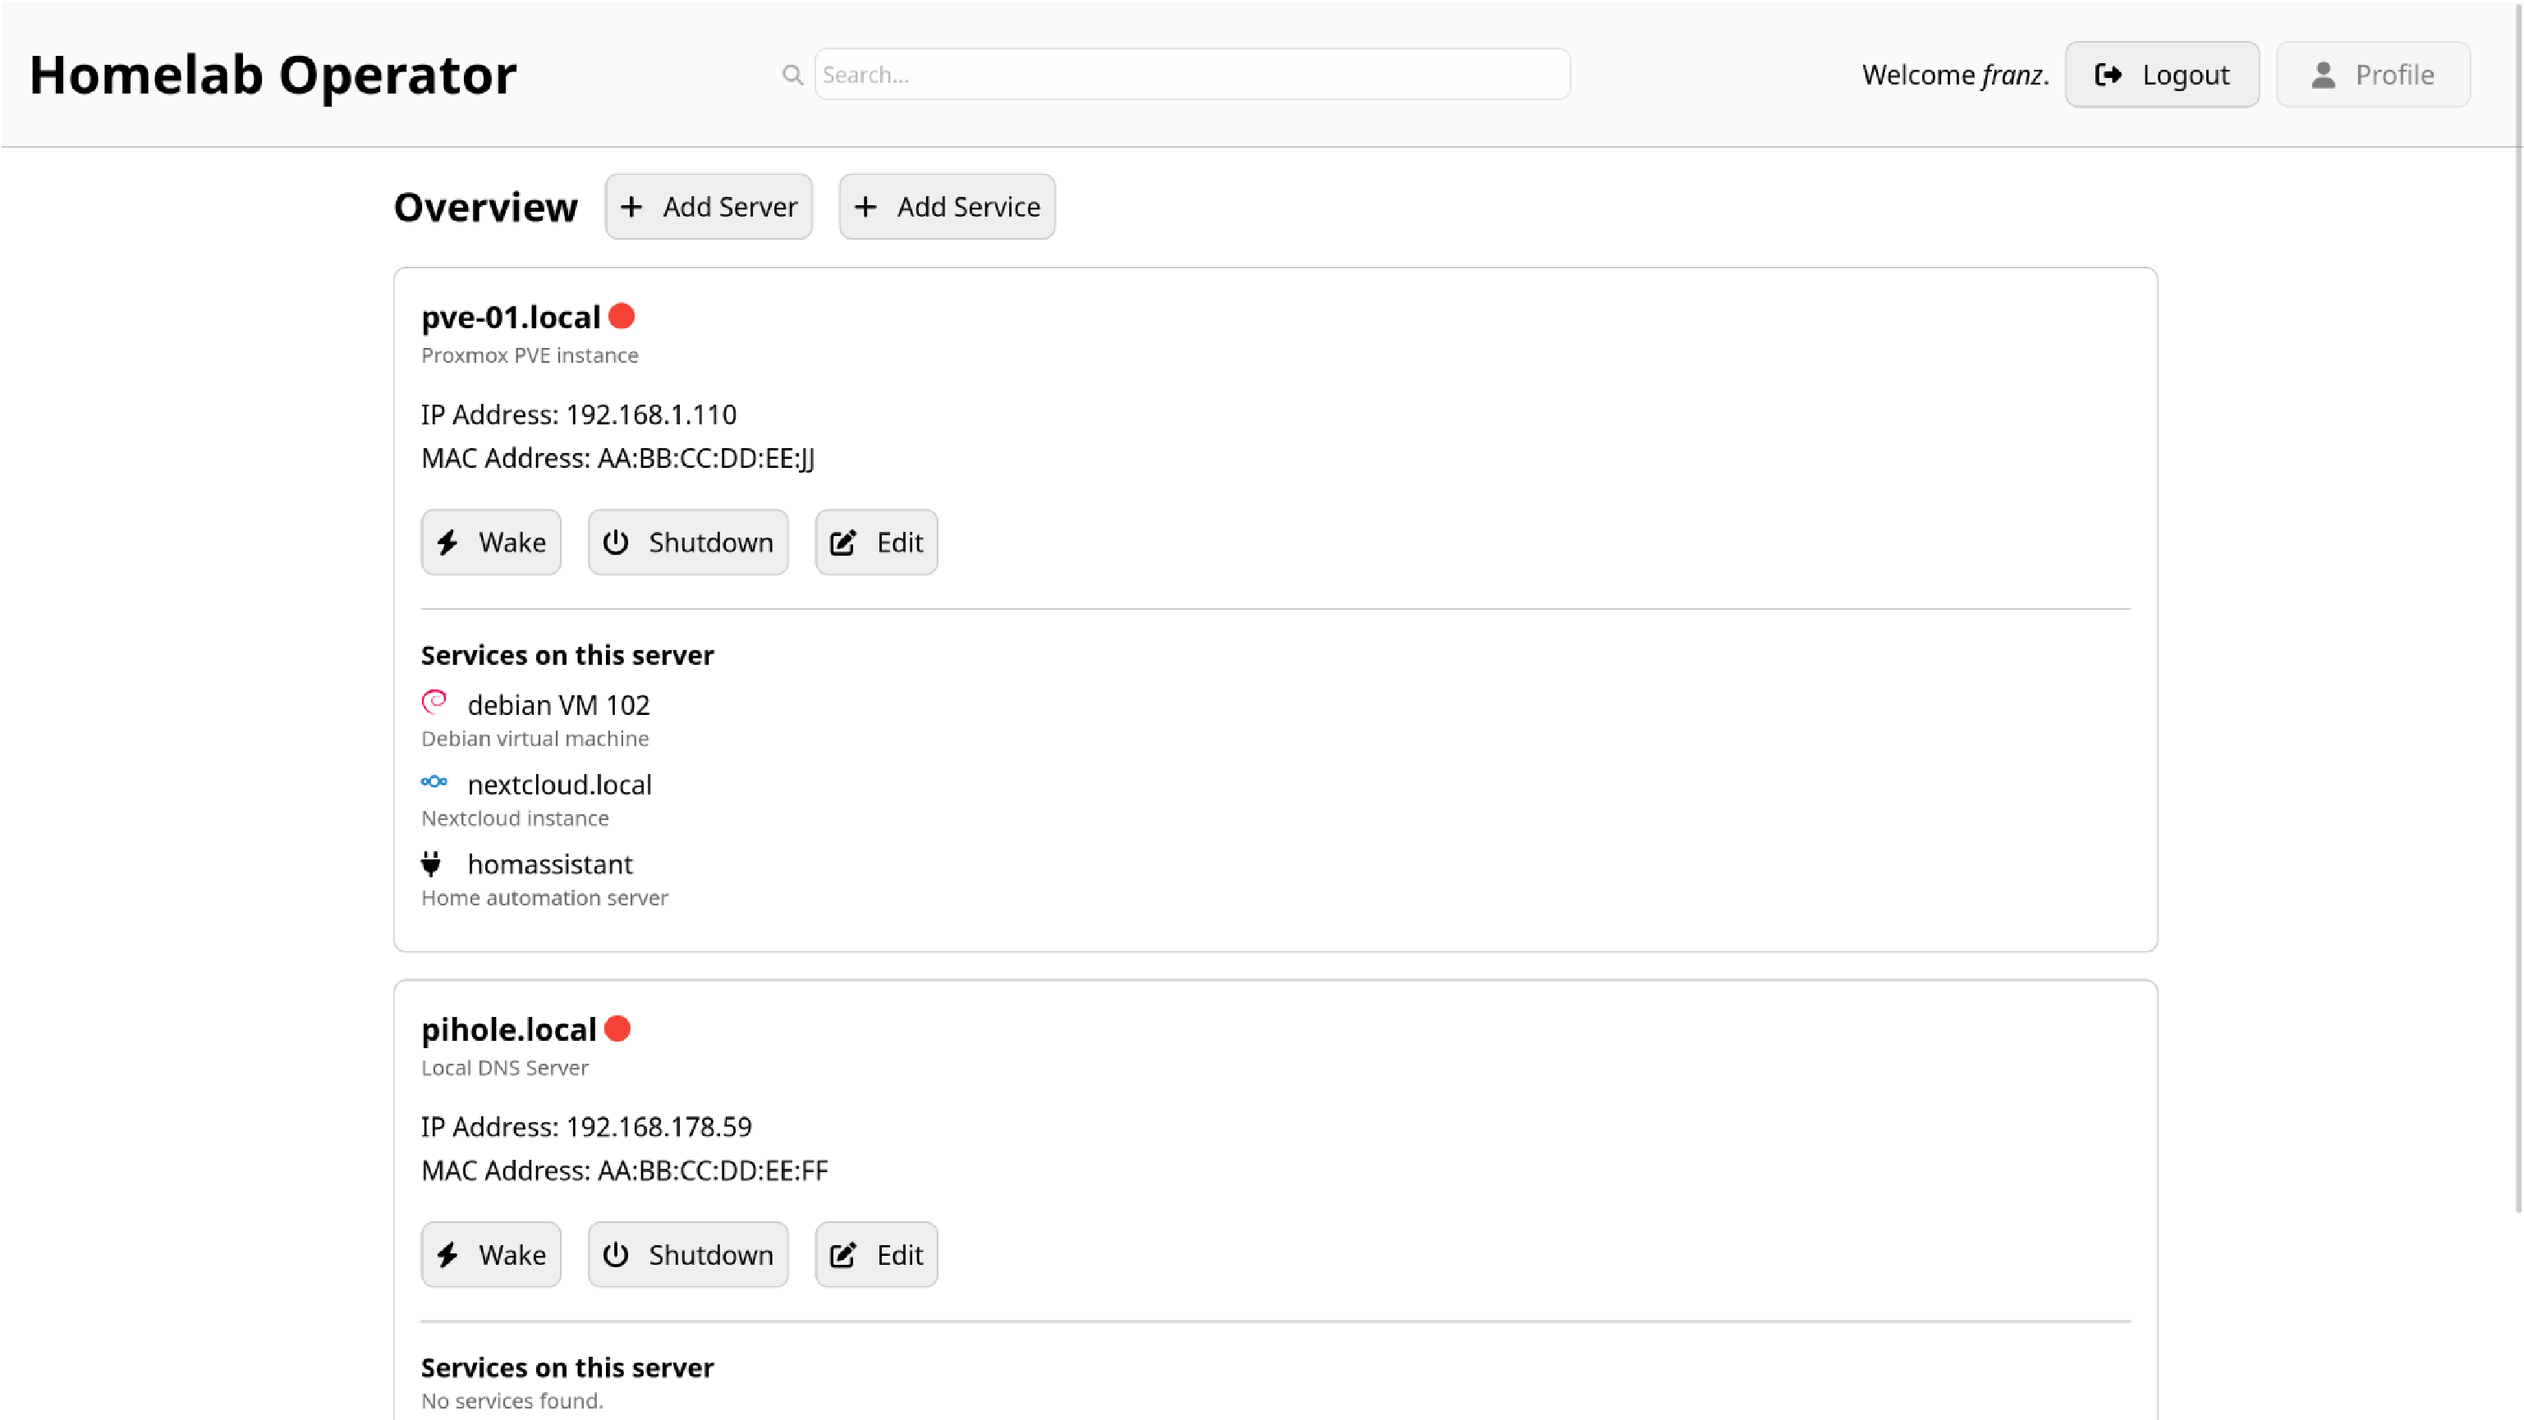
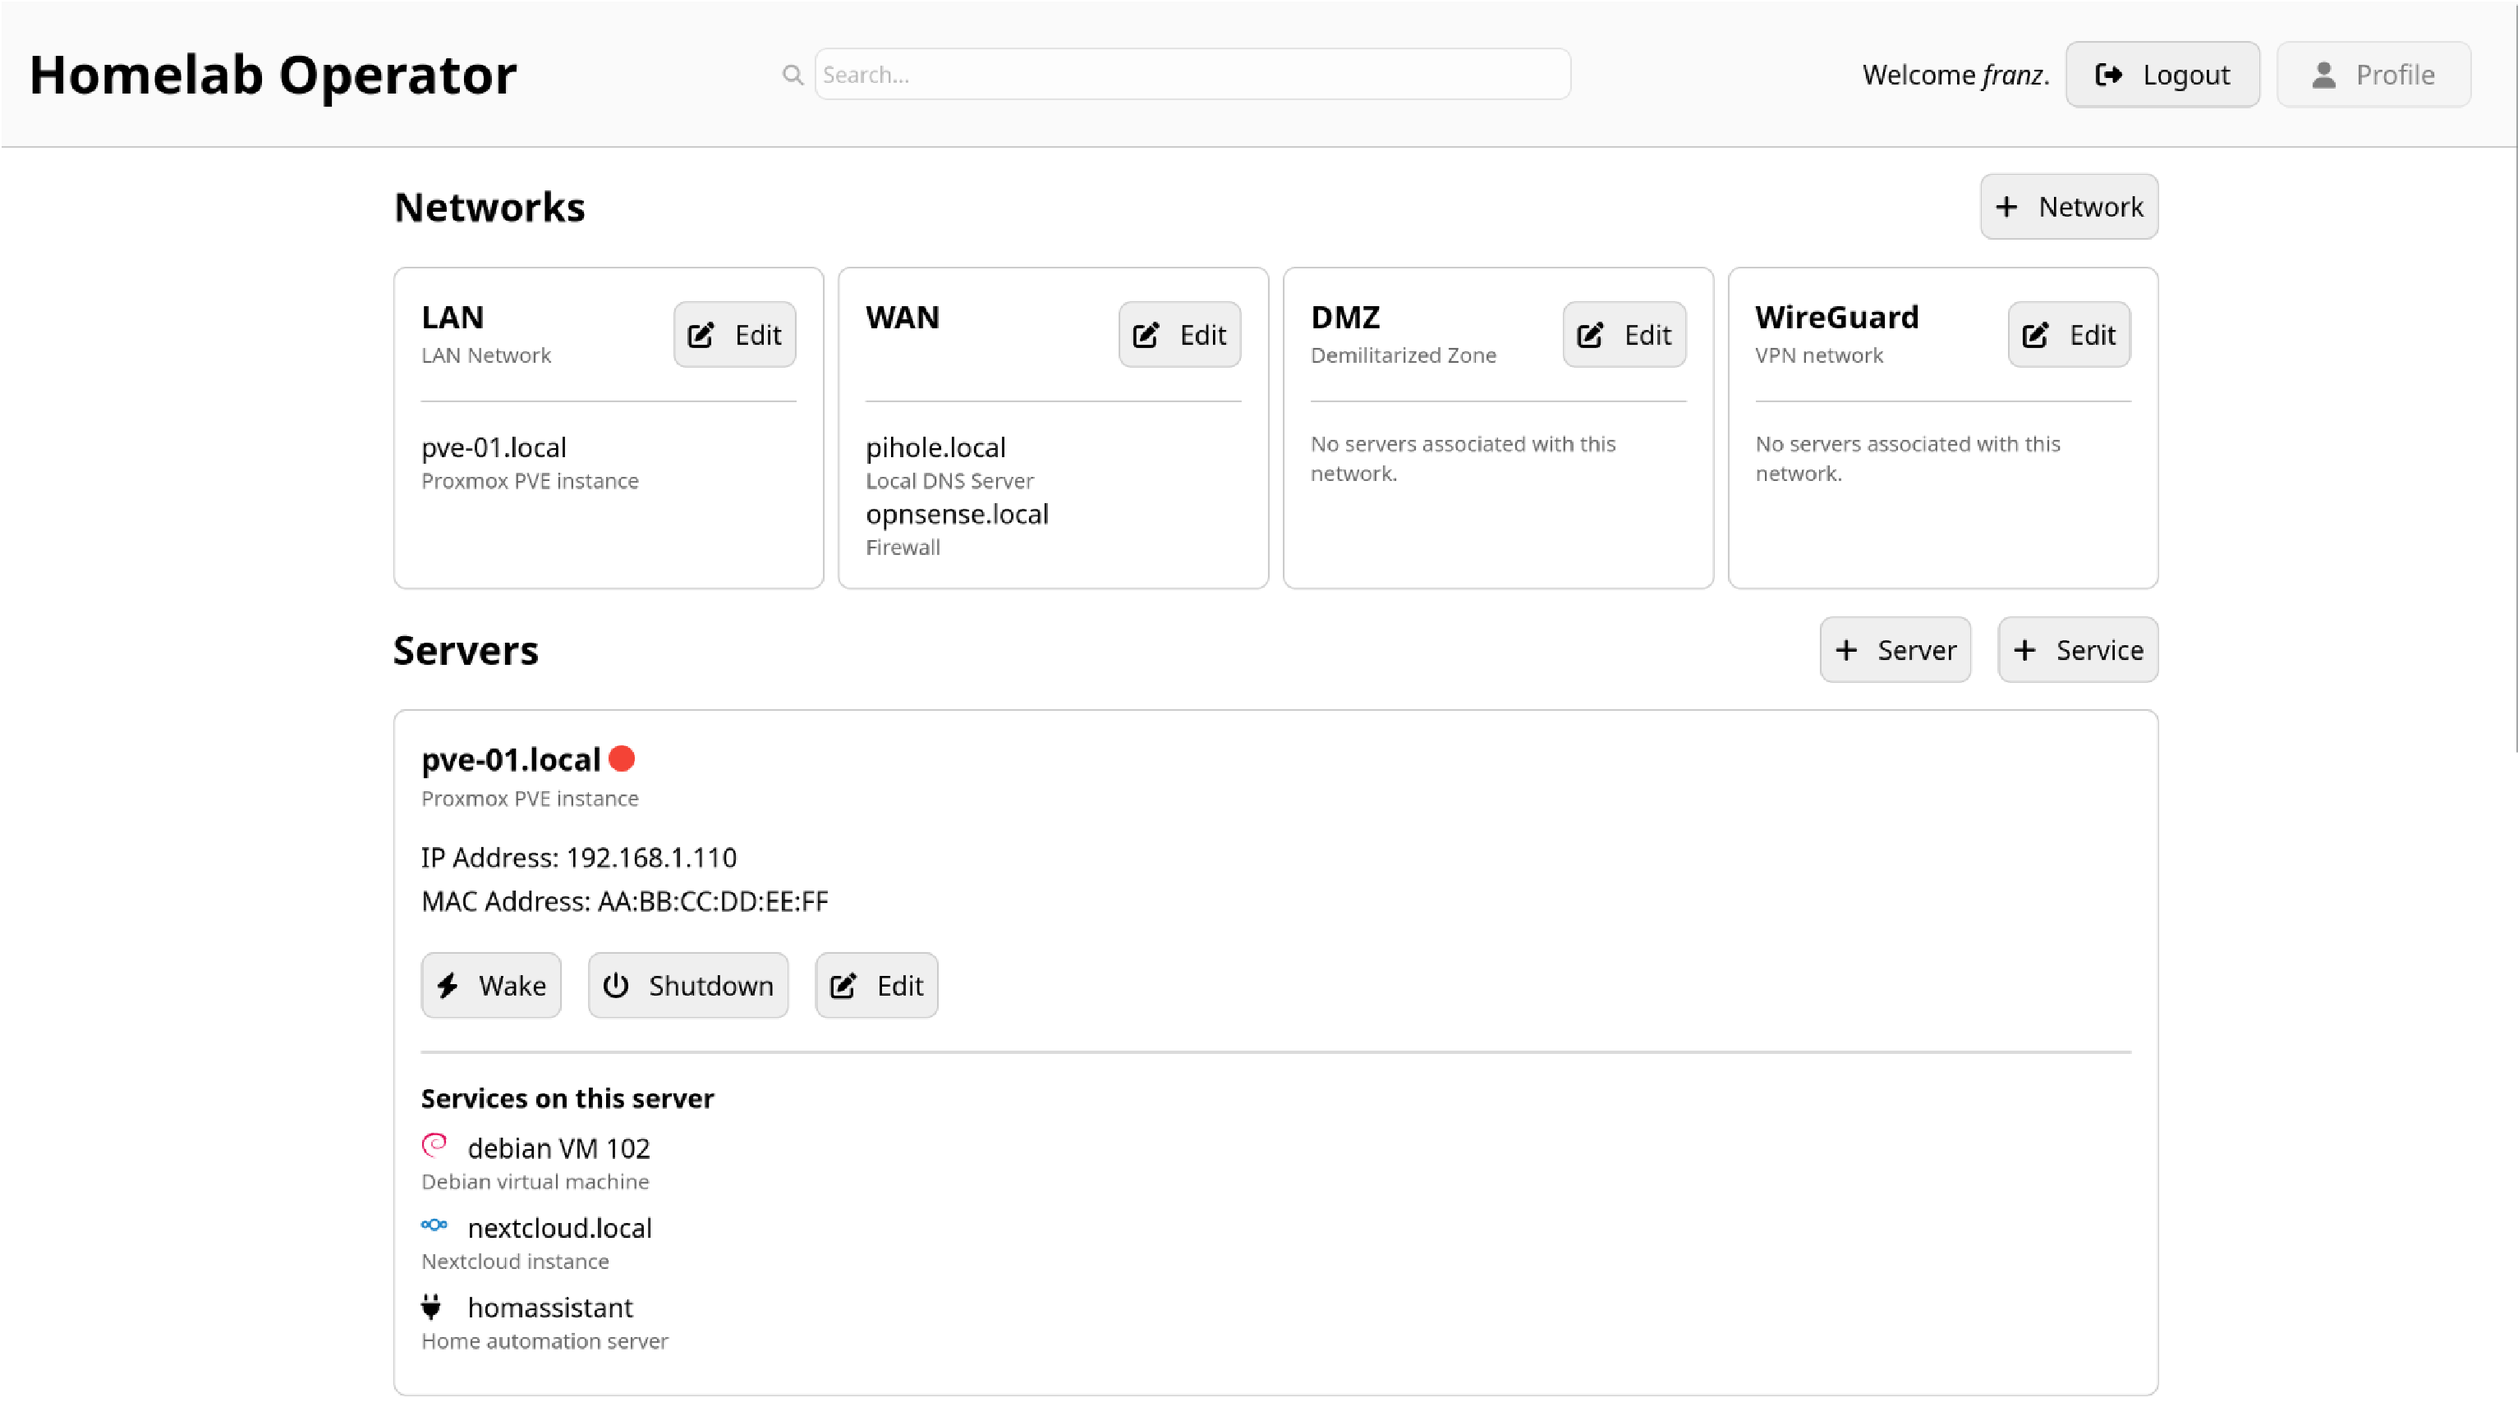
Add Network model, forms, and views; update dashboard to display networks and servers

diff --git a/homelab_operator/templates/html/dashboard.html b/homelab_operator/templates/html/dashboard.html
@@ -1,20 +1,74 @@
 {% extends 'html/base.html' %}
 
 {% block content %}
-    <div style="width: min-content;">
+    <div>
         <span style="display: flex;">
-            <h2>Overview</h2>
+            <h2>Networks</h2>
             <div style="width: 1rem;"></div>
-            <span style="margin: auto;">
-                {% include 'html_components/inline_button.html' with label='Add Server' fa_icon='fa-plus' href='/create/server/' %}
+            <span style="margin: auto 0 auto auto;">
+                {% include 'html_components/inline_button.html' with label='Network' fa_icon='fa-plus' href='/create/network/' %}
+            </span>
+        </span>
+    </div>
+    {% if networks %}
+        <div class="tile-display">
+            {% for network in networks %}
+                <div class="tile">
+                    <div style="display: flex;">
+                        <div>
+                            <h3 style="display: flex;">
+                                {{ network.name }}
+                            </h3>
+                            <div class="soft">
+                                {{ network.note }}
+                            </div>
+                        </div>
+                        <span style="margin: auto 0 auto auto; width: min-content;">
+                            {% with network_id=network.id|stringformat:'s' %}
+                                {% include 'html_components/inline_button.html' with label='Edit' fa_icon='fa-pen-to-square' href='/edit/network/'|add:network_id %}
+                            {% endwith %}
+                        </span>
+                    </div>
+                    <div class="spacer"></div>
+                    <div style="border-top: 1px solid #ccc;"></div>
+                    <div class="spacer"></div>
+                    <div>
+                        {% if network.servers.all %}
+                            {% for server in network.servers.all %}
+                                <div>
+                                    {{ server.name }}
+                                </div>
+                                <div class="soft">
+                                    {{ server.note }}
+                                </div>
+                            {% endfor %}
+                        {% else %}
+                            <div class="soft">No servers associated with this network.</div>
+                        {% endif %}
+                    </div>
+                </div>
+            {% endfor %}
+        </div>
+    {% else %}
+        <div>
+            <b>No networks were found.</b>
+            <div class="soft">There are no networks associated with this user.</div>
+        </div>
+    {% endif %}
+
+    <div>
+        <span style="display: flex;">
+            <h2>Servers</h2>
+            <div style="width: 1rem;"></div>
+            <span style="margin: auto 0 auto auto;">
+                {% include 'html_components/inline_button.html' with label='Server' fa_icon='fa-plus' href='/create/server/' %}
             </span>
             <div style="width: 1rem;"></div>
-            <span style="margin: auto;">
+            <span style="margin: auto 0 auto 0;">
                 {% with server_id=server.id|stringformat:'s' %}
-                    {% include 'html_components/inline_button.html' with label='Add Service' fa_icon='fa-plus' href='/create/service/' %}
+                    {% include 'html_components/inline_button.html' with label='Service' fa_icon='fa-plus' href='/create/service/' %}
                 {% endwith %}
             </span>
-            <div class="spacer" style="height: 0; width: 1rem;"></div>
         </span>
     </div>
     {% if servers %}
@@ -85,8 +139,8 @@
         {% endfor %}
     {% else %}
         <div>
-            <h3>No servers were found.</h3>
-            <div>There are no servers associated with this user.</div>
+            <b>No servers were found.</b>
+            <div class="soft">There are no servers associated with this user.</div>
         </div>
     {% endif %}
 {% endblock %}

diff --git a/homelab_operator/static/base.css b/homelab_operator/static/base.css
@@ -211,9 +211,9 @@ h3 {
 
 .tile-display {
     display: grid;
-    grid-template-columns: repeat(auto-fill, minmax(45.5vw, 1fr));
+    grid-template-columns: repeat(auto-fill, minmax(15rem, 1fr));
     grid-gap: .5rem;
-    margin: 1rem 1rem 0 auto;
+    /*margin: 1rem 1rem 0 auto;*/
 }
 
 .tile {

diff --git a/homelab_operator/webui/views.py b/homelab_operator/webui/views.py
@@ -2,8 +2,8 @@ from django.shortcuts import render, redirect
 from django.contrib import messages
 from django.contrib.auth import logout, authenticate, login
 from django.contrib.auth.decorators import login_required
-from .models import Server
-from .forms import ServerForm, ServiceForm
+from .models import Server, Service, Network
+from .forms import ServerForm, ServiceForm, NetworkForm
 
 def login_view(request):
     context = {}
@@ -29,9 +29,11 @@ def logout_view(request):
 def dashboard(request):
     user = request.user
     servers = Server.objects.filter(user=user)
+    networks = Network.objects.filter(user=user)
 
     context = {
         'servers': servers,
+        'networks': networks,
     }
     return render(request, 'html/dashboard.html', context)
 
@@ -66,7 +68,7 @@ def shutdown(request, server_id):
 @login_required
 def edit_server(request, server_id):
     user = request.user
-    server = Server.objects.get(id=server_id)
+    server = Server.objects.get(id=server_id, user=user)
 
     if request.method == 'POST':
         form = ServerForm(request.POST, instance=server)
@@ -124,5 +126,48 @@ def create_service(request):
     context = {
         'form': form,
         'form_title': 'Create Service',
+    }
+    return render(request, 'html_components/form.html', context)
+
+@login_required
+def create_network(request):
+    user = request.user
+
+    if request.method == 'POST':
+        form = NetworkForm(request.POST)
+        if form.is_valid():
+            network = form.save(commit=False)
+            network.user = user
+            network.save()
+            messages.success(request, f"Network {network.name} created successfully")
+            return redirect('dashboard')
+    else:
+        form = NetworkForm(user=user)
+
+    context = {
+        'form': form,
+        'form_title': 'Create Network',
+    }
+    return render(request, 'html_components/form.html', context)
+
+@login_required
+def edit_network(request, network_id):
+    user = request.user
+    network = Network.objects.get(id=network_id, user=user)
+
+    if request.method == 'POST':
+        form = NetworkForm(request.POST, instance=network)
+        if form.is_valid():
+            network = form.save()
+            network.user = user
+            network.save()
+            messages.success(request, f"Network {network.name} updated successfully")
+            return redirect('dashboard')
+    else:
+        form = NetworkForm(instance=network, user=user)
+
+    context = {
+        'form': form,
+        'form_title': 'Edit Network',
     }
     return render(request, 'html_components/form.html', context)

diff --git a/homelab_operator/webui/models.py b/homelab_operator/webui/models.py
@@ -7,6 +7,7 @@ class Server(models.Model):
     ip_address = models.GenericIPAddressField()
     mac_address = models.CharField(max_length=17)
     note = models.TextField(null=True, blank=True)
+    network = models.ForeignKey('Network', on_delete=models.CASCADE, null=True, blank=True, related_name='servers')
     ssh_username = models.CharField(max_length=100, null=True, blank=True)
     ssh_password = models.CharField(max_length=100, null=True, blank=True)
     user = models.ForeignKey('auth.User', on_delete=models.CASCADE, null=True, blank=True)
@@ -57,3 +58,11 @@ class Service(models.Model):
 
     def __str__(self):
         return f"{self.name} on {self.server.name}"
+
+class Network(models.Model):
+    name = models.CharField(max_length=20)
+    user = models.ForeignKey('auth.User', on_delete=models.CASCADE, null=True, blank=True)
+    note = models.TextField(null=True, blank=True)
+
+    def __str__(self):
+        return self.name

diff --git a/homelab_operator/webui/migrations/0007_network_server_network.py b/homelab_operator/webui/migrations/0007_network_server_network.py
@@ -1,0 +1,26 @@
+# Generated by Django 5.2 on 2025-04-14 14:46
+
+import django.db.models.deletion
+from django.db import migrations, models
+
+
+class Migration(migrations.Migration):
+
+    dependencies = [
+        ('webui', '0006_alter_service_server'),
+    ]
+
+    operations = [
+        migrations.CreateModel(
+            name='Network',
+            fields=[
+                ('id', models.BigAutoField(auto_created=True, primary_key=True, serialize=False, verbose_name='ID')),
+                ('name', models.CharField(max_length=20)),
+            ],
+        ),
+        migrations.AddField(
+            model_name='server',
+            name='network',
+            field=models.ForeignKey(blank=True, null=True, on_delete=django.db.models.deletion.CASCADE, to='webui.network'),
+        ),
+    ]

diff --git a/homelab_operator/webui/urls.py b/homelab_operator/webui/urls.py
@@ -8,7 +8,10 @@ urlpatterns = [
     path('logout/', views.logout_view, name='logout'),
     path('wake/<int:server_id>/', views.wake, name='wake'),
     path('shutdown/<int:server_id>/', views.shutdown, name='shutdown'),
-    path('edit/server/<int:server_id>/', views.edit_server, name='edit_server'),    
     path('create/server/', views.create_server, name='create_server'),
     path('create/service/', views.create_service, name='create_service'),
+    path('create/network/', views.create_network, name='create_network'),
+    path('edit/server/<int:server_id>/', views.edit_server, name='edit_server'),
+    #path('edit/service/<int:service_id>/', views.edit_service, name='edit_service'),
+    path('edit/network/<int:network_id>/', views.edit_network, name='edit_network'),
 ]

diff --git a/homelab_operator/webui/forms.py b/homelab_operator/webui/forms.py
@@ -1,6 +1,6 @@
 from django.forms import ModelForm
 from django.utils.html import format_html
-from .models import Server, Service
+from .models import Server, Service, Network
 
 class ServerForm(ModelForm):
     def __init__(self, *args, **kwargs):
@@ -26,4 +26,18 @@ class ServiceForm(ModelForm):
         
     class Meta:
         model = Service
+        fields = '__all__'
+
+class NetworkForm(ModelForm):
+    def __init__(self, *args, **kwargs):
+        user = kwargs.pop('user', None)
+
+        super(NetworkForm, self).__init__(*args, **kwargs)
+
+        if user:
+            self.fields['user'].initial = user
+            self.fields['user'].disabled = True
+        
+    class Meta:
+        model = Network
         fields = '__all__'

diff --git a/homelab_operator/webui/migrations/0009_network_note_alter_server_network.py b/homelab_operator/webui/migrations/0009_network_note_alter_server_network.py
@@ -1,0 +1,24 @@
+# Generated by Django 5.2 on 2025-04-14 15:10
+
+import django.db.models.deletion
+from django.db import migrations, models
+
+
+class Migration(migrations.Migration):
+
+    dependencies = [
+        ('webui', '0008_network_user'),
+    ]
+
+    operations = [
+        migrations.AddField(
+            model_name='network',
+            name='note',
+            field=models.TextField(blank=True, null=True),
+        ),
+        migrations.AlterField(
+            model_name='server',
+            name='network',
+            field=models.ForeignKey(blank=True, null=True, on_delete=django.db.models.deletion.CASCADE, related_name='servers', to='webui.network'),
+        ),
+    ]

diff --git a/homelab_operator/webui/migrations/0008_network_user.py b/homelab_operator/webui/migrations/0008_network_user.py
@@ -1,0 +1,21 @@
+# Generated by Django 5.2 on 2025-04-14 14:46
+
+import django.db.models.deletion
+from django.conf import settings
+from django.db import migrations, models
+
+
+class Migration(migrations.Migration):
+
+    dependencies = [
+        ('webui', '0007_network_server_network'),
+        migrations.swappable_dependency(settings.AUTH_USER_MODEL),
+    ]
+
+    operations = [
+        migrations.AddField(
+            model_name='network',
+            name='user',
+            field=models.ForeignKey(blank=True, null=True, on_delete=django.db.models.deletion.CASCADE, to=settings.AUTH_USER_MODEL),
+        ),
+    ]

diff --git a/homelab_operator/webui/admin.py b/homelab_operator/webui/admin.py
@@ -1,5 +1,5 @@
 from django.contrib import admin
-from .models import Server, Service
+from .models import Server, Service, Network
 
 class ServerAdmin(admin.ModelAdmin):
     list_display = ('name', 'ip_address', 'mac_address')
@@ -8,3 +8,7 @@ admin.site.register(Server, ServerAdmin)
 class ServiceAdmin(admin.ModelAdmin):
     list_display = ('name', 'server', 'port')
 admin.site.register(Service, ServiceAdmin)
+
+class NetworkAdmin(admin.ModelAdmin):
+    list_display = ('name', 'user')
+admin.site.register(Network, NetworkAdmin)
